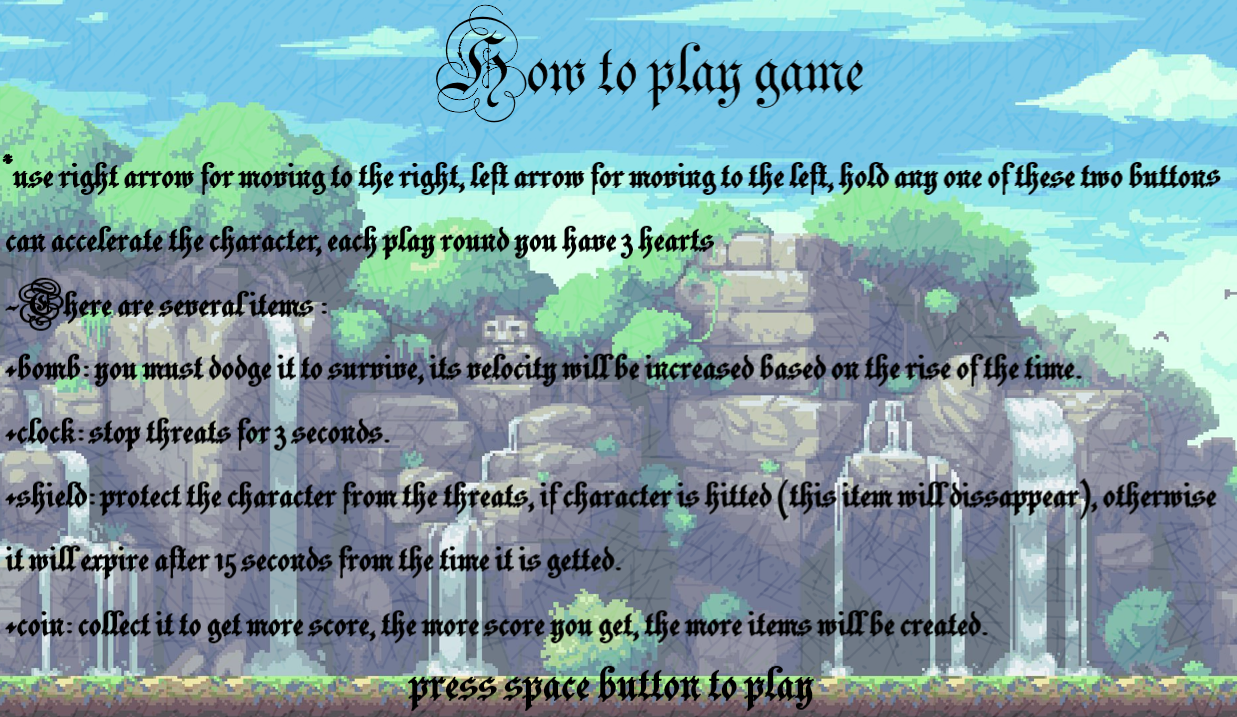
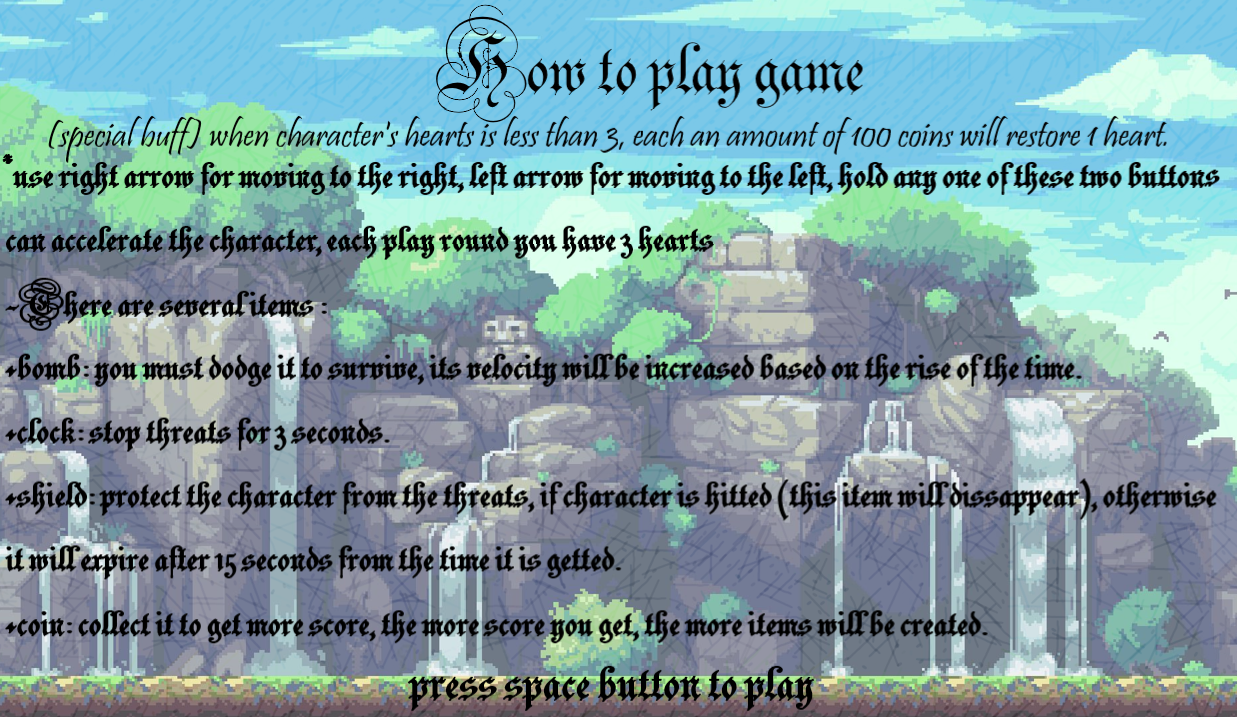
hoan thien project

Changed region(s): [[0.0307, 0.1534, 0.983, 0.2762], [0.2458, 0.3068, 0.5837, 0.3375]]

diff --git a/src/main.cpp b/src/main.cpp
@@ -190,7 +190,6 @@ while (vonglap) //vong lap phu o ngoai thiet lap cac trang thai ve ban dau de re
                 
             }
 
-            std::cout << xchange << "   ";
             if (time_count % 1000 == 0 && time_count > 0) 
             {
                     if (xchange <= 11)
@@ -668,6 +667,7 @@ void close()
     hitbom = NULL;
     hittreasure = NULL;
     museff = NULL;
+    huongdanmus = NULL;
 
     TTF_Quit();  //free font
     IMG_Quit();

diff --git a/README.md b/README.md
@@ -1,27 +1,62 @@
+# *Knight's adventure*
+
+
+- [*Knight's adventure*](#knights-adventure)
+- [INTRODUCTION:](#introduction)
+- [Cách tải game:](#cách-tải-game)
+- [Link youtube:](#link-youtube)
+- [DESCRIPTION:](#description)
+  - [1.Giới thiệu về nội dung của game:](#1giới-thiệu-về-nội-dung-của-game)
+  - [2.Cách thức chơi game:](#2cách-thức-chơi-game)
+  - [3.Các thành phần trong game](#3các-thành-phần-trong-game)
+    - [Nhân vật chính : Bạn sẽ điều khiển chàng kiếm sĩ cầm xẻng cute hột me này.](#nhân-vật-chính--bạn-sẽ-điều-khiển-chàng-kiếm-sĩ-cầm-xẻng-cute-hột-me-này)
+    - [Threat (quả bom) : Dính bom sẽ bị mất 1 mạng, khi hết 3 mạng sẽ thua cuộc](#threat-quả-bom--dính-bom-sẽ-bị-mất-1-mạng-khi-hết-3-mạng-sẽ-thua-cuộc)
+    - [Tiền : Tích lũy tiền để lấy buff](#tiền--tích-lũy-tiền-để-lấy-buff)
+    - [Đồng hồ (dừng thời gian trong vòng 3-5 giây) :](#đồng-hồ-dừng-thời-gian-trong-vòng-3-5-giây-)
+    - [Khiên (ăn icon khiên để có được hiệu ứng):](#khiên-ăn-icon-khiên-để-có-được-hiệu-ứng)
+    - [Hiệu ứng khiên (bảo vệ nhân vật khỏi bom):](#hiệu-ứng-khiên-bảo-vệ-nhân-vật-khỏi-bom)
+    - [Mạng (số mạng của nhân vật, mặc định là 3 mạng):](#mạng-số-mạng-của-nhân-vật-mặc-định-là-3-mạng)
+    - [Vụ nổ (xuất hiện khi nhân vật va chạm vào bom):](#vụ-nổ-xuất-hiện-khi-nhân-vật-va-chạm-vào-bom)
+  - [4.Cách chơi game:](#4cách-chơi-game)
+    - [Menu game : Di chuột và nhấn chuột trái vào nút "start game"](#menu-game--di-chuột-và-nhấn-chuột-trái-vào-nút-start-game)
+    - [Hướng dẫn chơi game : Đọc kĩ hướng dẫn chơi game rồi bấm nút "space" để bắt đầu](#hướng-dẫn-chơi-game--đọc-kĩ-hướng-dẫn-chơi-game-rồi-bấm-nút-space-để-bắt-đầu)
+    - [Trong game: Di chuyển né bom, ăn tiền, ăn buff.](#trong-game-di-chuyển-né-bom-ăn-tiền-ăn-buff)
+    - [Menu kết thúc: Bạn có thể xem điểm cao nhất qua các lượt chơi, có thể restart hoặc exit game](#menu-kết-thúc-bạn-có-thể-xem-điểm-cao-nhất-qua-các-lượt-chơi-có-thể-restart-hoặc-exit-game)
+  - [5.Kiến thức sử dụng:](#5kiến-thức-sử-dụng)
+  - [6.Về soure code:](#6về-soure-code)
+  - [7.Nguồn tham khảo:](#7nguồn-tham-khảo)
+  - [8. Hướng phát triển:](#8-hướng-phát-triển)
+- [Conclusion:](#conclusion)
+
+***
 # INTRODUCTION:
 - Họ và tên: Đặng Đình Khang - K68J
 - MSV: 23020675
 - Game: Knight's adventure
-
+***
 # Cách tải game:
 - Bước 1: Truy cập vào đường link google drive sau : 
 - Bước 2: Tải file .rar/.zip về máy, sau đó giải nén thành folder
 - Bước 3: Vào folder đã giải nén, bấm file "main.exe" để chạy game
 
-# DESCRIPTION:
-## Giới thiệu về nội dung của game:
 
-    - Game là thể loại endless game (chỉ kết thúc khi nhân vật thua) và tính điểm
+***
+# Link youtube:
+- 
+***
+# DESCRIPTION:
+
+
+## 1.Giới thiệu về nội dung của game:
+
+    - Game là thể loại endless game (chỉ kết thúc khi nhân vật thua) và tính điểm.
     - Nhân vật sẽ phải di chuyển để né tránh chướng ngại (bom) và thu thâp tiền vàng
-    để tích điểm, tốc độ của chướng ngại sẽ tăng dần theo thời gian. Bên cạnh đó nhân 
-    vật sẽ có thể thu thập được các buff sức mạnh như : 
-    + đồng hồ (ngưng động thời gian)
-    + khiên (bảo vệ khỏi chướng ngại, chỉ biến mất khi va chạm với chướng ngại). Mỗi lượt 
-    chơi nhân vật sẽ có 3 mạng, khi hết mạng thì sẽ thua cuộc.
+    để tích điểm, tốc độ của chướng ngại sẽ tăng dần theo thời gian.
     - Game có sử dụng hình ảnh lôi cuốn kết hợp cùng đồ họa âm thanh, điều chỉnh độ khó theo 
-    thời gian và các buff cho người chơi sẽ khiến game trở nên sinh động, hấp dẫn
-    
-## Cách thức chơi game:
+    thời gian và các buff cho người chơi sẽ khiến game trở nên sinh động, hấp dẫn.
+
+***
+## 2.Cách thức chơi game:
 
 |Key   |Function      |
 |:---:   |:---:           |
@@ -36,78 +71,121 @@
     - Sử dụng menu: ở đầu chương trình bấm nút "start game" để vào game, đọc kĩ hướng dẫn 
     chơi game sau khi kết thúc lượt chơi có thể chọn "restart game" hoặc "exit".
 
-## Các thành phần trong game:
+***
+## 3.Các thành phần trong game
 
-- Menu game :
-
-![menu](res/menu.png)
-
-- Hướng dẫn chơi game :
-
-![huongdan](res/anhhuongdan.png)
-
-- Ảnh nền :
-
-![background](res/background.png)
-
-- Menu kết thúc : 
-
-![endmenu](res/mucluc.png)
-
-- Nhân vật chính : 
+### Nhân vật chính : Bạn sẽ điều khiển chàng kiếm sĩ cầm xẻng cute hột me này.
 
 ![player](res/newsizeknight.png)
+***
 
+### Threat (quả bom) : Dính bom sẽ bị mất 1 mạng, khi hết 3 mạng sẽ thua cuộc
 
-- Threat (quả bom) :
+![threat](res/bomb.png)     
 
-![threat](res/bomb.png)
-
-
-- Tiền :
+***
+### Tiền : Tích lũy tiền để lấy buff
 
 ![coin](res/treasure.png)
+***
 
-
-- Đồng hồ (buff) :
+### Đồng hồ (dừng thời gian trong vòng 3-5 giây) :
 
 ![clock](res/timeclock.png)
 
-
-- Khiên :
+***
+### Khiên (ăn icon khiên để có được hiệu ứng):
 
 ![shield](res/shieldicon.png)
 
-
-- Hiệu ứng khiên :
+***
+### Hiệu ứng khiên (bảo vệ nhân vật khỏi bom):
 
 ![effshield](res/Shield.png)
 
-
-- Mạng :
+***
+### Mạng (số mạng của nhân vật, mặc định là 3 mạng):
 
 ![life](res/heart.png)
+***
 
-
-- Vụ nổ :
+### Vụ nổ (xuất hiện khi nhân vật va chạm vào bom):
 
 ![explo](res/explimage.png)
 
 
+***
 
-## Kiến thức sử dụng:
-    + vector 
-    + class
-    + truyền tham chiếu, con trỏ
-    + lưu lại điểm cao trong file 
-    + cách sử dụng các cấu trúc đồ họa game trong SDL2
-    + Edit ảnh cơ bản bằng Paint, Paint3D, lấy hình ảnh nhân vật, cắt ghép từ Google
-    + Sử dụng âm thanh trong game, tạo menu.
-- Nguồn tham khảo:
-    +Youtue: https://www.youtube.com/@PhatTrienPhanMem123AZ
-    +Lazyfoo.
-    +Video cô Minh Châu.
+## 4.Cách chơi game: 
 
+### Menu game : Di chuột và nhấn chuột trái vào nút "start game"
+
+![menu](res/menu.png)
+***
+### Hướng dẫn chơi game : Đọc kĩ hướng dẫn chơi game rồi bấm nút "space" để bắt đầu
+
+![huongdan](res/anhhuongdan.png)
+***
+
+### Trong game: Di chuyển né bom, ăn tiền, ăn buff. 
+- Chú ý đến các buff rơi ra (đồng hồ, khiên), đặc biệt là buff hồi mạng khi số vàng tích lũy đạt được 100
+
+![ingame1](res/minhhoagame1.jpg)
+***
+### Menu kết thúc: Bạn có thể xem điểm cao nhất qua các lượt chơi, có thể restart hoặc exit game
+
+![endmenu](res/minhhoagame2.jpg)
+***
+## 5.Kiến thức sử dụng:
+    + vector (lưu trữ số mạng, sản sinh các quả bom) .
+    + class (khởi tạo các đối tượng) .
+    + vòng lặp lồng nhau. 
+    + chia file.
+    + truyền tham chiếu, con trỏ, quản lý và cấp phát bộ nhớ. 
+    + sử dụng frametime và SDL_Getticks() để duy trì sự mượt mà cho game.
+    + lưu lại điểm cao trong file.
+    + cách sử dụng các cấu trúc đồ họa game trong SDL2.
+    + Edit ảnh cơ bản bằng Paint, Paint3D, lấy hình ảnh nhân vật, cắt ghép từ Google.
+    + Sử dụng âm thanh, hiệu ứng trong game, tạo menu.
+    + Check va chạm giữa nhân vật và quả bom.
+    + Sử dụng các biến để thay đổi tốc độ của quả bom sẽ tăng dần theo thời gian và độ
+     khó của game sẽ ngày càng cao, mỗi lần trúng bom, điểm tích lũy để lấy buff sẽ bị 
+     trừ về 0. Do vậy, càng trúng bom nhiều, buff sẽ càng ít xuất hiện.
+
+***
+## 6.Về soure code:
+- File **main.cpp**: xử lý các sự kiện logic trong game (xử lý va chạm, sản sinh bom, xử lý buff, ....), bao gồm hàm khởi tạo menu, end game và khởi tạo các object, ghi file, cập nhật điểm.
+
+- Các class chính bao gồm :
+  - File **object.h/cpp** : xử lý về phần kỹ thuật cho game (load ảnh, load text, ...) .
+  - File **player.h/cpp** : khởi tạo class character, xử lý về tọa độ, hình ảnh của nhân vật .
+  - File **treasure.h/cpp** : khởi tạo tiền vàng, xử lý về tọa độ, sản sinh ra tiền bằng hàm **rand()** .
+  - File **threat.h/cpp** : khởi tạo quả bom, xử lý về tọa độ, hình ảnh và sinh ra bom .
+  - File **shield.h/cpp** : khởi tạo khiên, tạo ra khiên tiếp theo sau khi đạt điều kiện để lấy buff.
+  - File **effectshield.h/cpp** : dùng để tạo hiệu ứng khiên cho nhân vật.
+  - File **explosion.h/cpp** : dùng để tạo ra vụ nổ, load các frame để tạo ra hiệu ứng sinh động .
+  - File **life.h/cpp** : dùng để khởi tạo mạng cho nhân vật, sẽ thay đổi tương ứng với số mạng hiện có.
+  - File **clocktime.h/cpp** : khởi tạo đồng hồ ngưng đọng thời gian.
+  - File **sources.h/cpp** : dùng chung cho các class, khai báo kích thước cửa sổ, tốc độ của nhân vật, quả bom, hàm check va chạm của các đối tượng, khai báo hiệu ứng âm thanh, text.
+  
+
+***
+## 7.Nguồn tham khảo: 
+- Video của cô Minh Châu (học làm quen với sdl, một số khởi tạo cơ bản)
+- Kênh youtube phát triển phần mềm 123az (Học cách chia file, tạo lớp đối tượng)
+- Lazyfoo (lấy sự kiện chuột, âm thanh, xử lý va chạm)
+- Tham khảo qua project của các anh chị khóa trước trên youtube (snake AI, ...)
+- Âm thanh, hình ảnh, font chữ (lấy trên google và chọn lọc từ web itch.io)
+***
+## 8. Hướng phát triển:
+- Tạo vũ khí tấn công cho nhân vật để tiêu diệt bom trong phạm vi nhất định (đã có dự định nhưng vẫn chưa hoàn thành được)
+- Sau khi đạt đến 1 số điểm nhất định sẽ chuyển màn để đánh nhau với boss (gần giống thể loại game bắn gà)
+- Thêm 1 số buff ví dụ : giấy phép (làm giảm tốc độ của quả bom)
+***
+# Conclusion:
+- Đây là game đầu tay với ý tưởng về hiệp sĩ phiêu lưu của em, dù đã gặp khá nhiều khó khăn trong giai đoạn đầu về cả mặt ý tưởng lẫn logic game và các kĩ thuật hình ảnh với sdl dần dần em đã học hỏi và khám phá ra nhiều điều thú vị với việc lập trình có thể đem lại. 
+- Em cảm nhận bản thân đã cải thiện về cách tư duy để hoàn thiện 1 dự án nói chung, cách tiếp cận thú vị từ nhiều phía có thể giải quyết vấn đề 1 các hiệu quả .
+- Em xin cảm ơn thầy Lê Đức Trọng, thầy Trần Trường Thủy cùng các anh mentor đã support rất nhiệt tình cho em.
 
 
     
